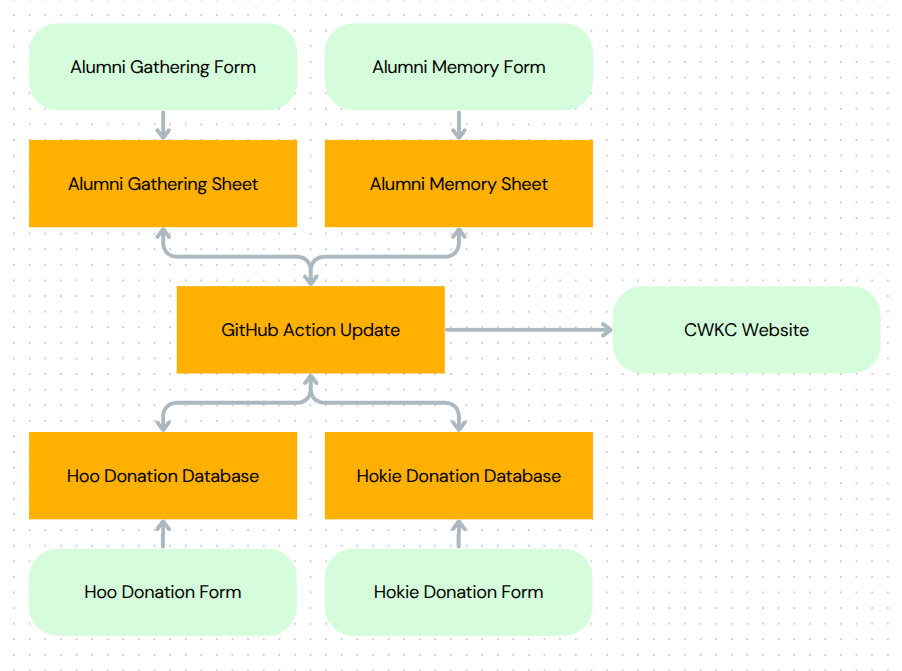
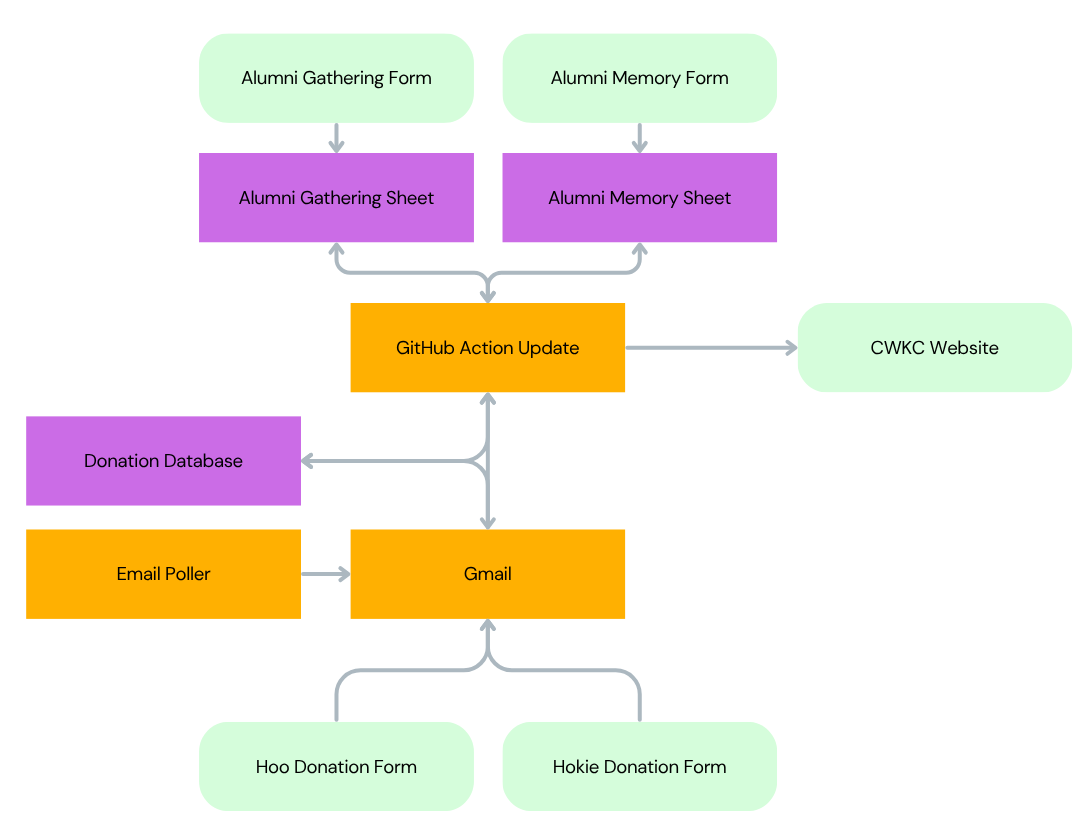
Updating README and pics with new workflow

diff --git a/README.md b/README.md
@@ -27,7 +27,7 @@ Commonwealth Kiddish Cup
 
 As the workflow above shows, there are two main
 integration points for our application. The first is
-directly to the LGL Forms database to track donations,
+scraping emails from the LGL Forms to track donations,
 and the second is from our alumni submitted data which
 is stored in Google Sheets.
 
@@ -37,9 +37,34 @@ real time.
 
 ### Donations
 
-TODO - figure out how to tie into database and then
-implement this, and then document it (might need to
-change the wording in the above step)
+Unfortunately, not all fields in the donations forms are
+mapped to fields within LGL. This means that data can not
+be extracted directly from the LGL database. Instead, we
+are capturing data from the emails sent out, pulling that
+data into a spreadsheet, and then analyzing it.
+
+A script is running on a remote server that continuously
+checks to see if a new email is received from LGL. If it
+is, it triggers a GitHub Action to scrape the email data.
+If needed, it can be triggered manually for more frequent
+runs.
+
+#### Setup
+
+In order to poll for emails, simply run the
+`scripts/pollEmail.py` script. In order to run, an env
+file must be configured with a few values.
+
+```env
+EMAIL_ACCOUNT=servicecwkc@gmail.com
+EMAIL_APP_PASSWORD=[UNIQUE_EMAIL_APP_PASSWORD]
+GITHUB_TOKEN=[GHA_TOKEN]
+```
+
+This polling script can be run anywhere, so long as it
+runs the entire time of the cup (so that emails can be
+checked for); locally, on a small server somewhere, or
+even as an ongoing GHA job.
 
 ### Gathering and Memory Forms
 
@@ -106,9 +131,7 @@ function triggerGithubAction() {
 Open items to be addressed. These are more or less in
 priority order
 
-- Figure out how to grab data from LGL Forms
 - Figure out dates in `updates.yml` and how times can work (and to make inclusive)
-- Make prettier for mobile
 - Document how to add/replace forms (maybe not needed)
 - Document how other schools can use this
 - Replace marquee with something smarter
